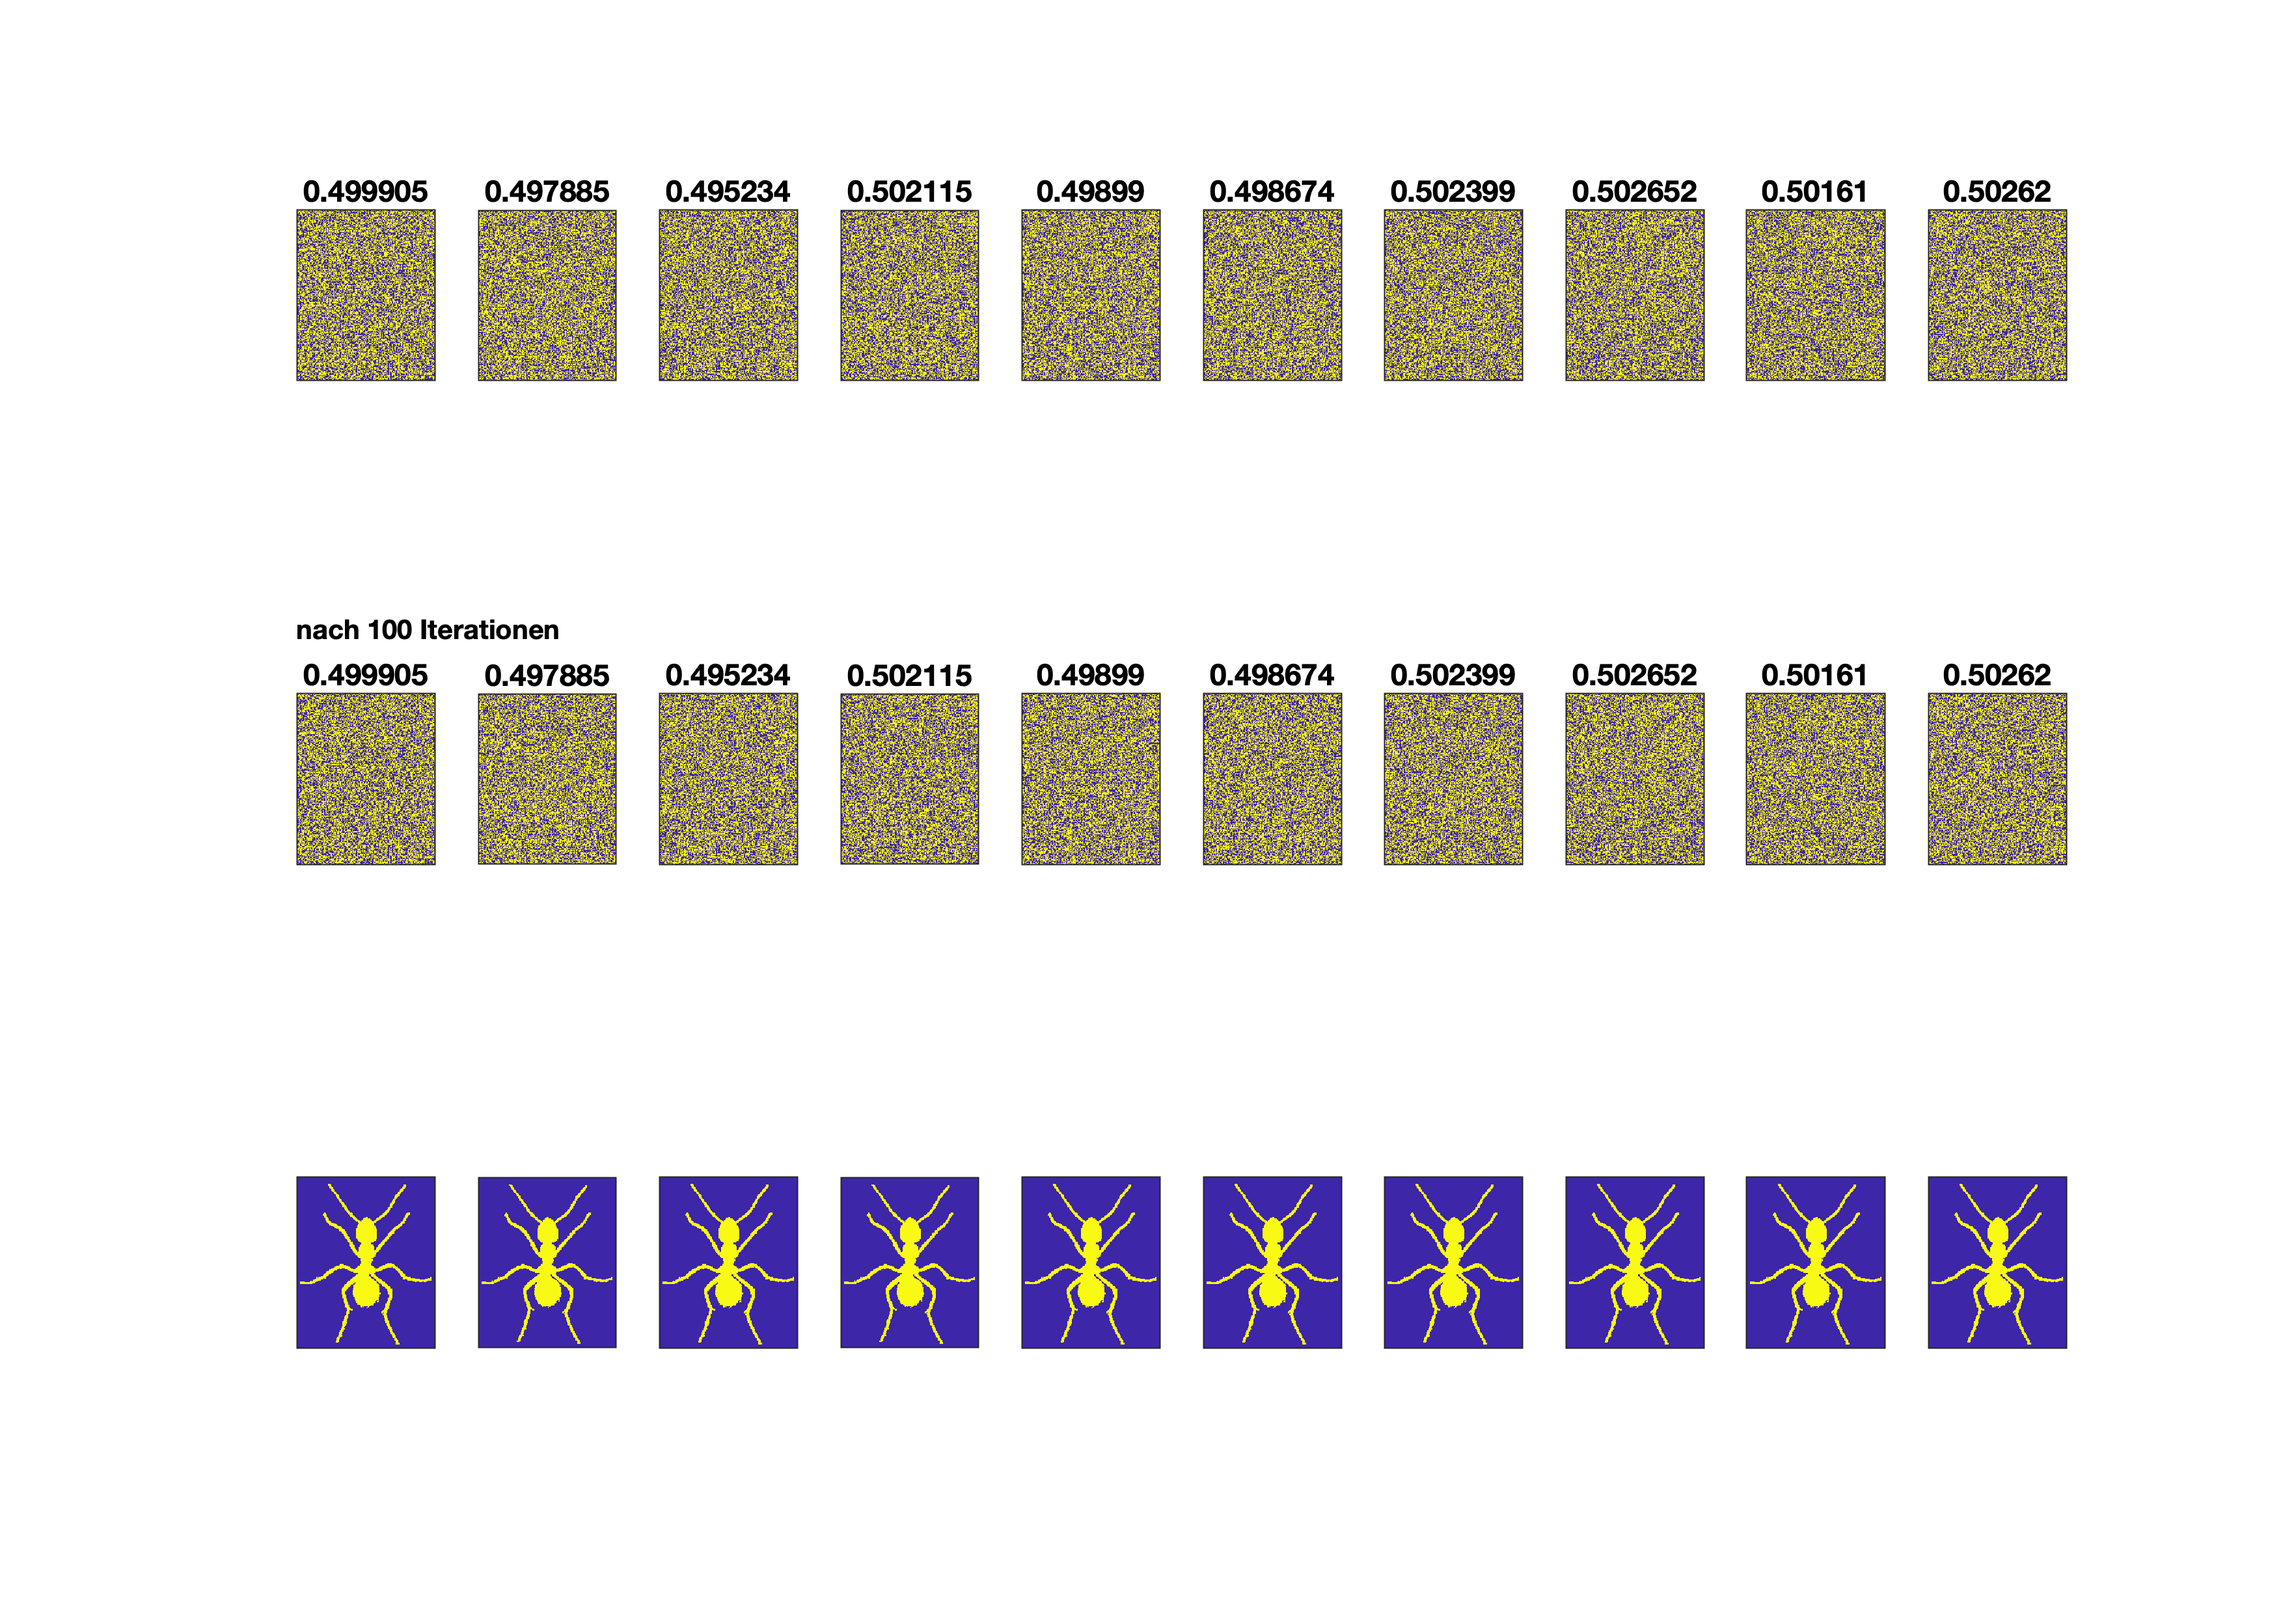
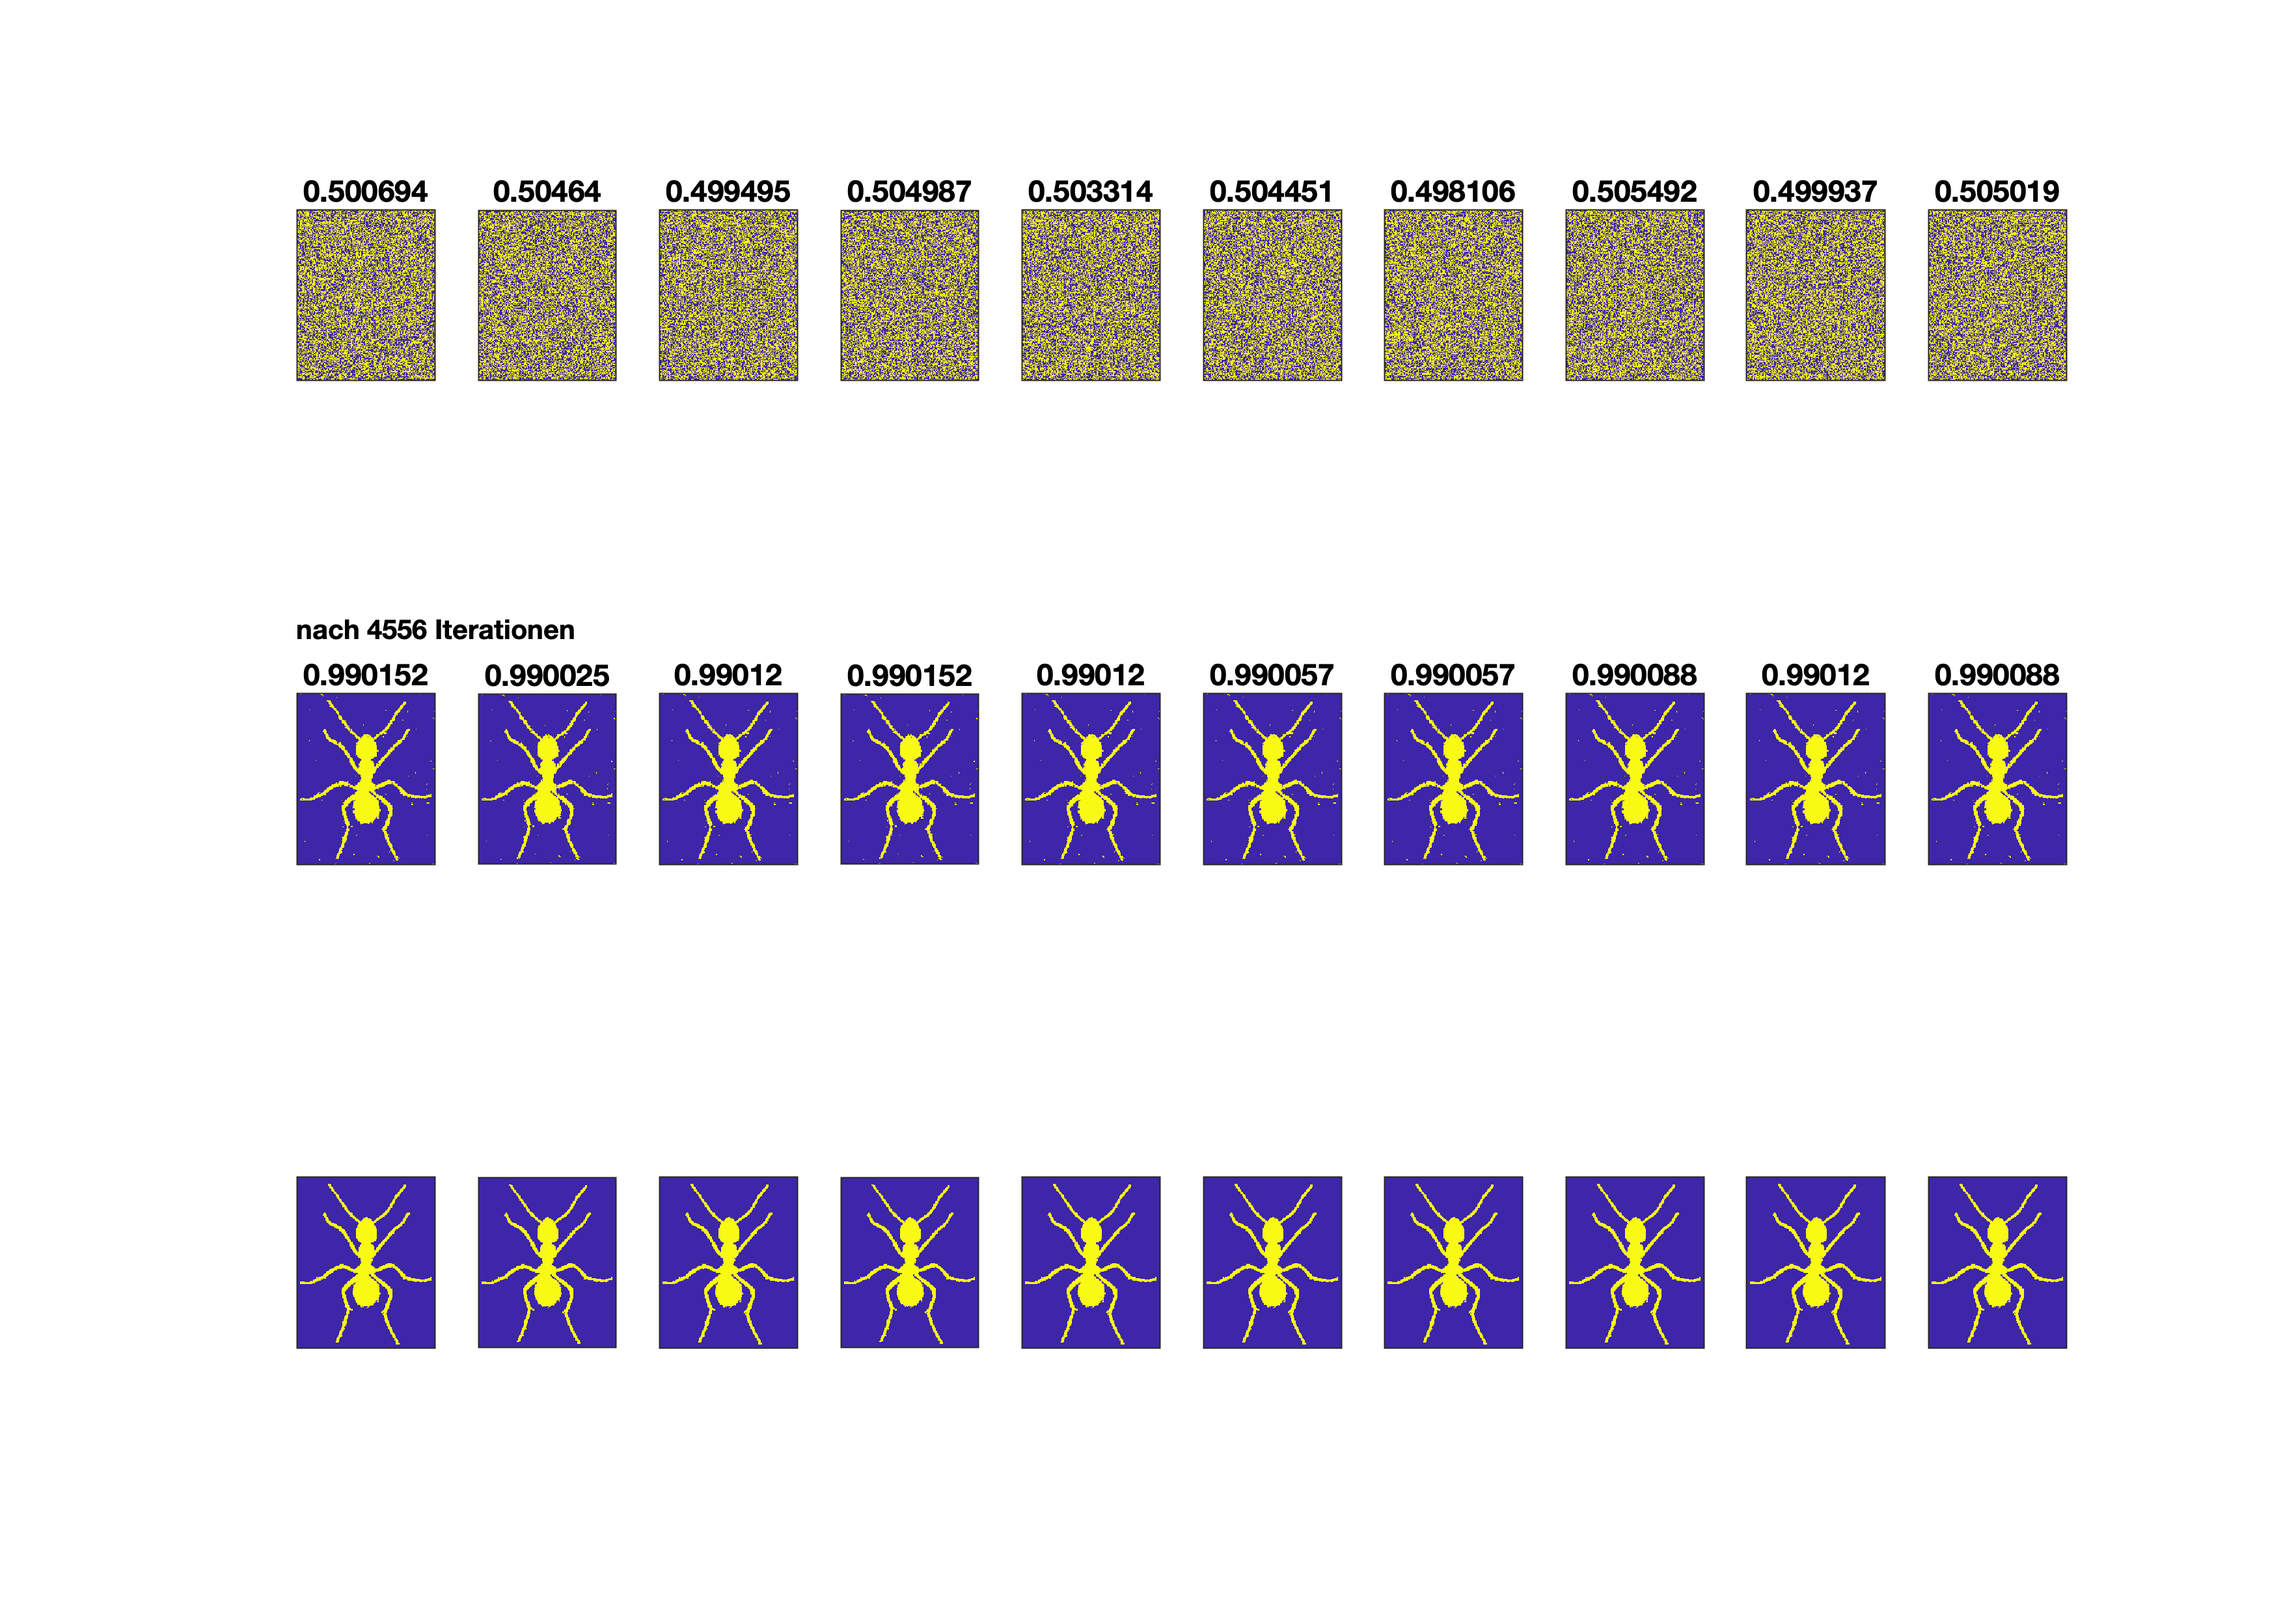
pretty good working condition TODO blob ant not yet at 99 percent below 8000 iterations. Mutation count has to be adjusted probably

Changed region(s): [[0.1243, 0.0931, 0.9011, 0.2484], [0.1243, 0.3726, 0.9011, 0.5589]]

diff --git a/Aufgabe_2/antFarm.m b/Aufgabe_2/antFarm.m
@@ -1,43 +1,46 @@
 clear all;
 close all;
 clc;
-
+ 
 figure(1);
 set(gcf, 'Units', 'normalized', 'OuterPosition', [0.05 0.05 0.9 0.9]);
 set(gcf, 'PaperOrientation', 'landscape');
 set(gcf, 'PaperUnits', 'centimeters', 'PaperPosition', [0 0 29.7 21]);
 set(gcf, 'PaperSize', [29.7 21.0]);
-
+ 
 % Lade Daten.
 load('ant.mat');
 [x, y] = size(ant);
-
+sum(ant(:) == 1)
 % Setze Parameter.
 n = 10;
 % TODO: Setzt die Parameter eures Genetischen Algorithmus.
-nSurv = 3;
+nSurv = 2;
 nDeaths = n - nSurv;
 nMutations = 10;
-maxIter = 1000;
-
-
+mutationNumber = 30;
+var = 1;
+maxIter = 8000;
+ 
+ 
 % Initialisierung.
 P = zeros(n, x, y);
+Child = zeros(n, x, y);
 fitness = zeros(n, 1);
-
+ 
 % Generiere Startpopulation.
 % TODO: Kommentiert/Unkommentiert eine der Zeilen, um eine der Startpopulationen zu erhalten.
 for i = 1:n
- %  P(i, :, :) = round(rand(x, y));
-     P(i, :, :) = antdummy;
+   P(i, :, :) = round(rand(x, y));
+    %P(i, :, :) = antdummy;
 end
-
+ 
 % Initiale Fitness.
 % TODO: Berechnet Fitness der Startpopulation.
 for i = 1:n
     fitness(i) = fitnessFunction(P(i, :, :));
 end
-
+ 
 % Visualisierung der Startpopulation.
 for i = 1:n
     subplot(3, n, i);
@@ -46,9 +49,20 @@ for i = 1:n
     set(gca, 'xtick', [], 'ytick', []);
     title(fitness(i), 'FontWeight', 'bold');
 end
-
+ 
 for k = 1:maxIter
-    
+    if mod(k,100) == 0
+        var = var + 0.1;
+     
+        
+    end
+    if mod(k,1000) == 0
+        k
+        fitness
+        mutationNumber = ceil(mutationNumber /1.5);
+        %sum(P(1,:,:) == 1)
+        
+    end
     % Selektion.
     % TODO: Selektiert die besten Individuen.
     
@@ -60,28 +74,56 @@ for k = 1:maxIter
         fitness(idx(1))=[]; 
         
     end
-
+ 
     
     % Rekombination.
-    % TODO: Generiert neue Individuen aus �berlebenden durch Rekombination.
+    % TODO: Generiert neue Individuen aus ï¿½berlebenden durch Rekombination.
     
     %Berechne relative Fitness zur Fortpflanzung
-    reprod = zeros(nSurv,1);
+    reprod = zeros(1);
+    foo = zeros(1,nSurv);
     totalFitness = sum(fitness);
     for j = 1 : nSurv
         reprod(j) = fitness(j)/totalFitness;
     end
+    
+    for j = 1 : nSurv
+        reprod(j) = fitness(j)/totalFitness;
+        foo(j) = j;
+    end
+    
+    
     for j = 1 : n
-    par1 = randi([1 3],1);    
-    par
-    par1 = randi([1 3],1); = randi([1 3],1);
+        par1 = P(randsrc(1,1,[foo;reprod]),:,:);
+        par2 = P(randsrc(1,1,[foo;reprod]),:,:);
+%         for col  = 1 : 198/2
+%             for row = 1 : 160/2
+%                 Child(j,2*col,2*row) = par1(1,2*col,2*row);
+%                 Child(j,2*col-1,2*row-1) = par2(1,2*col-1,2*row-1);
+%             end
+%             
+%         end
+      Child(j,:,:) = [par1(1,1:99,:),par2(1,100:198,:)];
+       
     
     end
     
-    % Mutation.
-    % TODO: Mutiere zuf�llig die neuen Individuen.
-
+    P = Child;
+    Child = zeros(n, x, y);
     
+    % Mutation.
+    % TODO: Mutiere zufï¿½llig die neuen Individuen.
+    mutations = randsrc(1,nMutations,[1 2 3 4 5 6 7 8 9 10]);%Zu mutierende individuen
+    for i = 1 : nMutations
+        for j = 1 : 50%mutationNumber%ceil(maxIter/500- var*var)  %ceil(100 / (var*var))
+            val1 = randi([1 198], 1);
+            val2 = randi([1 160], 1);
+            %newval = floor((P(mutations(i),max(1,val1-1),val2) + P(mutations(i),min(val1+1,198),val2) + P(mutations(i),val1,max(1,val2-1))+ P(mutations(i),val1,min(val2+1,160)))/3);
+            newval = [P(mutations(i),max(1,val1-1),val2), P(mutations(i),min(val1+1,198),val2), P(mutations(i),val1,max(1,val2-1)), P(mutations(i),val1,min(val2+1,160))];
+            
+            P(mutations(i),val1,val2) = newval(randi([1 4],1));%~P(mutations(i),val1,val2);
+        end
+    end
     % Fitness-Update.
     % TODO: Berechne Fitness der neuen Generation.
     for i = 1:n
@@ -93,7 +135,7 @@ for k = 1:maxIter
         break;
     end
 end
-
+ 
 % Visualisiere gefundene Population.
 for i = 1:n
     subplot(3, n, 10+i);
@@ -102,11 +144,11 @@ for i = 1:n
     set(gca, 'xtick', [], 'ytick', []);
     title(fitness(i), 'FontWeight', 'bold');
 end
-
+ 
 % Zeige benoetigte Generationen.
 subplot(3, n, 11);
 text(0, -75, ['nach ' num2str(k) ' Iterationen'], 'FontWeight', 'bold');
-
+ 
 % Zum Vergleich: Visualisiere perfekte Population.
 for i = 1:n
     subplot(3, n, 20+i);
@@ -114,5 +156,5 @@ for i = 1:n
     axis image;
     set(gca, 'xtick', [], 'ytick', []);
 end
-
+ 
 print('-dpng', 'antFarm.png', '-r300');
